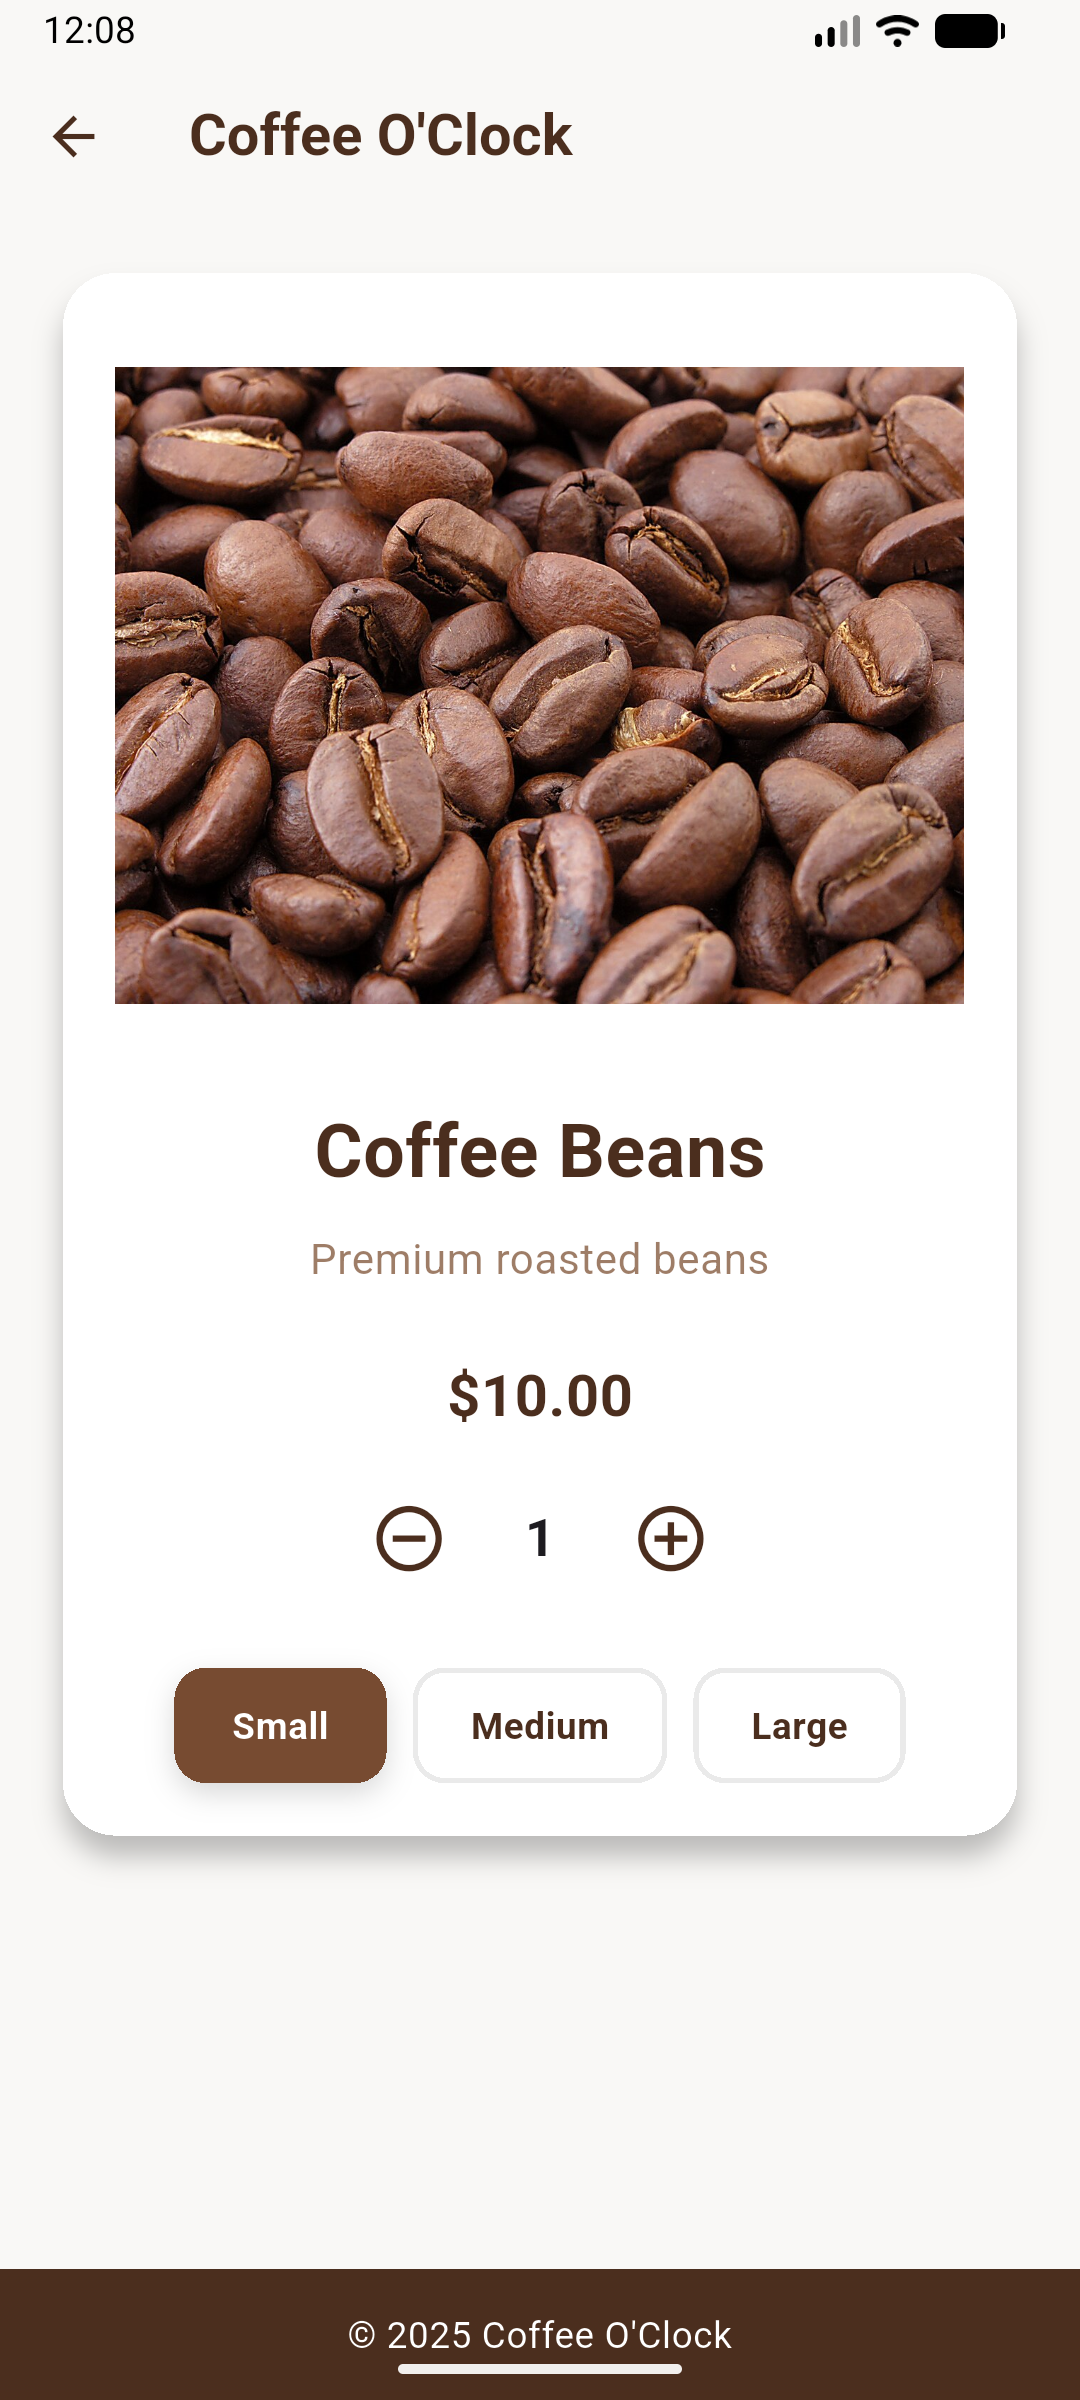
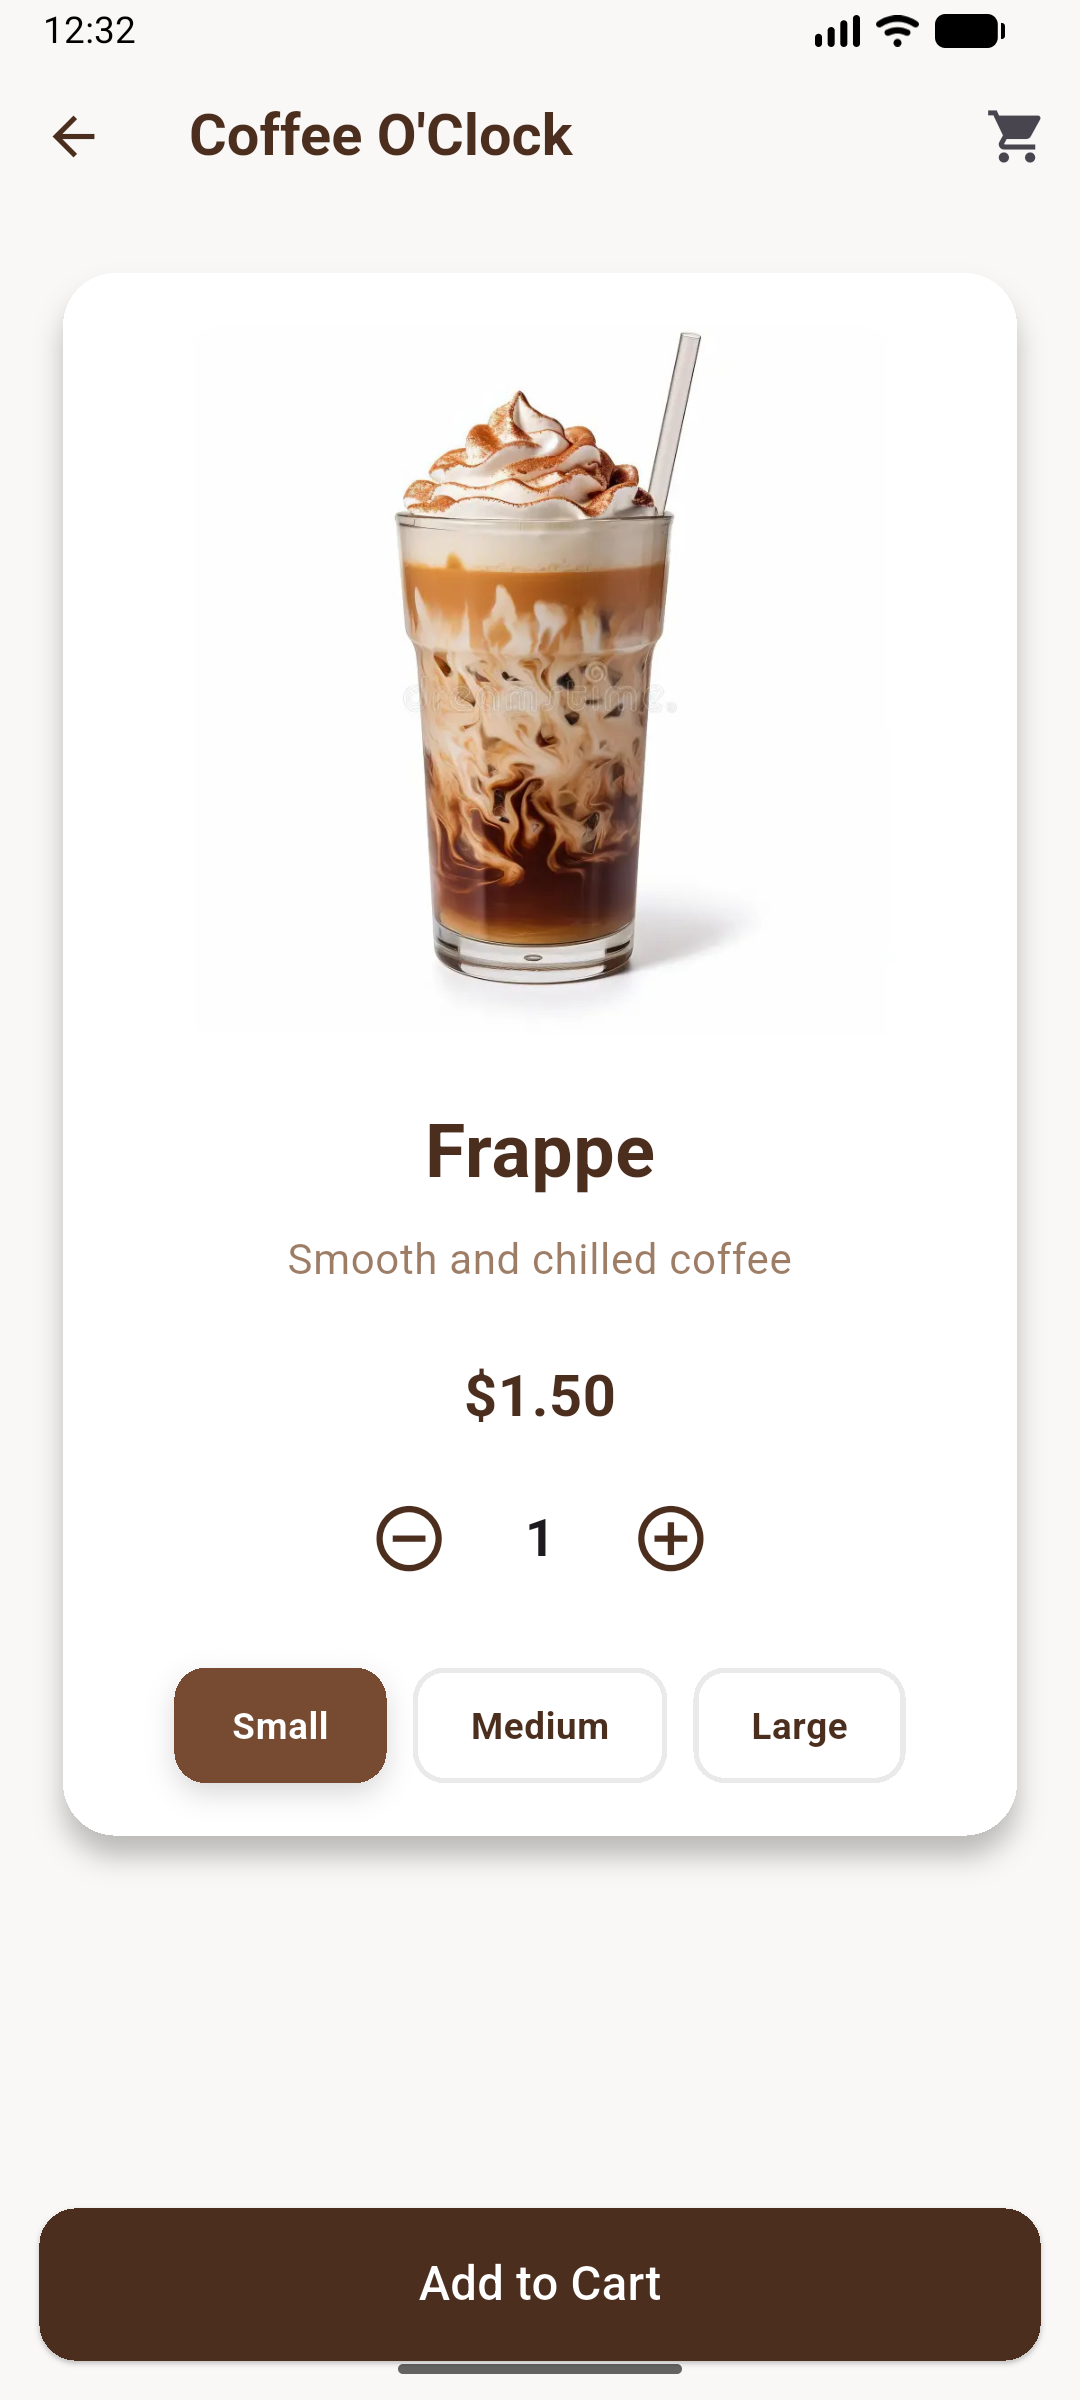
.

diff --git a/lib/cart_page.dart b/lib/cart_page.dart
@@ -1,0 +1,175 @@
+import 'package:flutter/material.dart';
+import 'package:provider/provider.dart';
+import 'cart_provider.dart';
+
+class CartPage extends StatelessWidget {
+  const CartPage({super.key});
+
+  static const Color primaryBrown = Color(0xFF4B2E1E);
+  static const Color secondaryBrown = Color(0xFF9E7D67);
+  static const Color bgColor = Color(0xFFF9F8F6);
+
+  @override
+  Widget build(BuildContext context) {
+    final cart = Provider.of<CartProvider>(context);
+
+    return Scaffold(
+      backgroundColor: bgColor,
+      appBar: AppBar(
+        backgroundColor: bgColor,
+        elevation: 0,
+        iconTheme: const IconThemeData(color: primaryBrown),
+        title: const Text(
+          "Your Cart",
+          style: TextStyle(
+            color: primaryBrown,
+            fontWeight: FontWeight.bold,
+          ),
+        ),
+      ),
+
+      body: cart.items.isEmpty
+          ? _emptyCart()
+          : ListView.builder(
+              padding: const EdgeInsets.all(16),
+              itemCount: cart.items.length,
+              itemBuilder: (_, i) {
+                final item = cart.items[i];
+
+                return Card(
+                  elevation: 4,
+                  margin: const EdgeInsets.only(bottom: 14),
+                  shape: RoundedRectangleBorder(
+                    borderRadius: BorderRadius.circular(16),
+                  ),
+                  child: Padding(
+                    padding: const EdgeInsets.all(12),
+                    child: Row(
+                      children: [
+                        ClipRRect(
+                          borderRadius: BorderRadius.circular(12),
+                          child: Image.asset(
+                            item.image,
+                            width: 70,
+                            height: 70,
+                            fit: BoxFit.cover,
+                          ),
+                        ),
+
+                        const SizedBox(width: 14),
+
+                        Expanded(
+                          child: Column(
+                            crossAxisAlignment: CrossAxisAlignment.start,
+                            children: [
+                              Text(
+                                item.title,
+                                style: const TextStyle(
+                                  fontWeight: FontWeight.bold,
+                                  fontSize: 16,
+                                  color: primaryBrown,
+                                ),
+                              ),
+                              const SizedBox(height: 4),
+                              Text(
+                                "${item.size} • Qty ${item.quantity}",
+                                style: const TextStyle(
+                                  color: secondaryBrown,
+                                  fontSize: 13,
+                                ),
+                              ),
+                            ],
+                          ),
+                        ),
+
+                        Text(
+                          "\$${item.totalPrice.toStringAsFixed(2)}",
+                          style: const TextStyle(
+                            fontWeight: FontWeight.bold,
+                            fontSize: 16,
+                            color: primaryBrown,
+                          ),
+                        ),
+                      ],
+                    ),
+                  ),
+                );
+              },
+            ),
+
+      bottomNavigationBar: _checkoutBar(cart),
+    );
+  }
+
+  Widget _emptyCart() {
+    return Center(
+      child: Column(
+        mainAxisAlignment: MainAxisAlignment.center,
+        children: const [
+          Icon(Icons.shopping_cart_outlined,
+              size: 80, color: secondaryBrown),
+          SizedBox(height: 12),
+          Text(
+            "Your cart is empty",
+            style: TextStyle(
+              fontSize: 18,
+              color: secondaryBrown,
+            ),
+          ),
+        ],
+      ),
+    );
+  }
+
+  Widget _checkoutBar(CartProvider cart) {
+    return Container(
+      padding: const EdgeInsets.all(20),
+      decoration: const BoxDecoration(
+        color: primaryBrown,
+        borderRadius: BorderRadius.vertical(top: Radius.circular(20)),
+      ),
+      child: Row(
+        mainAxisAlignment: MainAxisAlignment.spaceBetween,
+        children: [
+          Column(
+            mainAxisSize: MainAxisSize.min,
+            crossAxisAlignment: CrossAxisAlignment.start,
+            children: [
+              const Text(
+                "Total",
+                style: TextStyle(color: Colors.white70),
+              ),
+              Text(
+                "\$${cart.totalAmount.toStringAsFixed(2)}",
+                style: const TextStyle(
+                  fontSize: 22,
+                  fontWeight: FontWeight.bold,
+                  color: Colors.white,
+                ),
+              ),
+            ],
+          ),
+
+          ElevatedButton(
+            style: ElevatedButton.styleFrom(
+              backgroundColor: Colors.white,
+              foregroundColor: primaryBrown,
+              padding:
+                  const EdgeInsets.symmetric(horizontal: 28, vertical: 14),
+              shape: RoundedRectangleBorder(
+                borderRadius: BorderRadius.circular(14),
+              ),
+            ),
+            onPressed: () {
+              
+            },
+            child: const Text(
+              "Checkout",
+              style: TextStyle(fontSize: 16, fontWeight: FontWeight.bold),
+            ),
+          ),
+        ],
+      ),
+    );
+  }
+}

diff --git a/lib/ItemDetails.dart b/lib/ItemDetails.dart
@@ -1,4 +1,8 @@
 import 'package:flutter/material.dart';
+import 'package:provider/provider.dart';
+import 'package:mobile/cart_page.dart';
+import 'cart_provider.dart';
+import 'cart_item.dart';
 
 class DetailPage extends StatefulWidget {
   final String title;
@@ -76,6 +80,17 @@ class _DetailPageState extends State<DetailPage> {
           "Coffee O'Clock",
           style: TextStyle(color: primaryBrown, fontWeight: FontWeight.bold),
         ),
+          actions: [
+  IconButton(
+    icon: const Icon(Icons.shopping_cart),
+    onPressed: () {
+      Navigator.push(
+        context,
+        MaterialPageRoute(builder: (_) => const CartPage()),
+      );
+    },
+  ),
+]
       ),
       body: Padding(
         padding: const EdgeInsets.all(20),
@@ -166,15 +181,37 @@ class _DetailPageState extends State<DetailPage> {
           ),
         ),
       ),
-      bottomNavigationBar: Container(
-        color: primaryBrown,
-        padding: const EdgeInsets.all(15),
-        child: const Text(
-          "© 2025 Coffee O'Clock",
-          textAlign: TextAlign.center,
-          style: TextStyle(color: Colors.white),
-        ),
+     bottomNavigationBar: Padding(
+  padding: const EdgeInsets.all(15),
+  child: ElevatedButton(
+    style: ElevatedButton.styleFrom(
+      backgroundColor: primaryBrown,
+      padding: const EdgeInsets.symmetric(vertical: 16),
+      shape: RoundedRectangleBorder(
+        borderRadius: BorderRadius.circular(14),
       ),
+    ),
+    onPressed: () {
+      Provider.of<CartProvider>(context, listen: false).addToCart(
+        CartItem(
+          title: widget.title,
+          image: widget.image,
+          size: selectedSize,
+          unitPrice: currentBasePrice,
+          quantity: quantity,
+        ),
+      );
+
+      ScaffoldMessenger.of(context).showSnackBar(
+        const SnackBar(content: Text("Added to cart 🛒")),
+      );
+    },
+    child: const Text(
+      "Add to Cart",
+      style: TextStyle(fontSize: 18, color: Colors.white),
+    ),
+  ),
+),
     );
   }
 

diff --git a/lib/ProductList.dart b/lib/ProductList.dart
@@ -1,6 +1,7 @@
 import 'package:flutter/material.dart';
 import 'package:mobile/about.dart';
 import 'package:mobile/Home1.dart';
+import 'package:mobile/cart_page.dart';
 import 'package:mobile/ProductListView.dart';
 import 'dart:convert';
 import 'package:http/http.dart' as http;
@@ -70,6 +71,18 @@ class _ProductlistState extends State<Productlist> {
         centerTitle: true,
         backgroundColor: Colors.transparent,
         elevation: 0,
+        actions: [
+  IconButton(
+    icon: const Icon(Icons.shopping_cart),
+    onPressed: () {
+      Navigator.push(
+        context,
+        MaterialPageRoute(builder: (_) => const CartPage()),
+      );
+    },
+  ),
+]
+
       ),
       body: isLoading
           ? const Center(child: CircularProgressIndicator())
@@ -101,6 +114,7 @@ class _ProductlistState extends State<Productlist> {
                 ],
               ),
             ),
+            
       bottomNavigationBar: Container(
         color: coffeeBrown,
         padding: const EdgeInsets.all(16),

diff --git a/lib/cart_provider.dart b/lib/cart_provider.dart
@@ -1,0 +1,34 @@
+import 'package:flutter/material.dart';
+import 'cart_item.dart';
+
+class CartProvider extends ChangeNotifier {
+  final List<CartItem> _items = [];
+
+  List<CartItem> get items => _items;
+
+  double get totalAmount =>
+      _items.fold(0, (sum, item) => sum + item.totalPrice);
+
+  void addToCart(CartItem item) {
+    final index = _items.indexWhere(
+      (e) => e.title == item.title && e.size == item.size,
+    );
+
+    if (index >= 0) {
+      _items[index].quantity += item.quantity;
+    } else {
+      _items.add(item);
+    }
+    notifyListeners();
+  }
+
+  void removeItem(CartItem item) {
+    _items.remove(item);
+    notifyListeners();
+  }
+
+  void clearCart() {
+    _items.clear();
+    notifyListeners();
+  }
+}

diff --git a/lib/main.dart b/lib/main.dart
@@ -1,5 +1,8 @@
 import 'package:flutter/material.dart';
-import 'package:mobile/login_page.dart';
+import 'package:provider/provider.dart';
+
+import 'cart_provider.dart';
+import 'login_page.dart';
 
 void main() {
   runApp(const MyApp());
@@ -10,9 +13,12 @@ class MyApp extends StatelessWidget {
 
   @override
   Widget build(BuildContext context) {
-    return MaterialApp(
-      debugShowCheckedModeBanner: false,
-      home: const LoginPage(),
+    return ChangeNotifierProvider(
+      create: (_) => CartProvider(),
+      child: MaterialApp(
+        debugShowCheckedModeBanner: false,
+        home: const LoginPage(),
+      ),
     );
   }
 }

diff --git a/lib/cart_item.dart b/lib/cart_item.dart
@@ -1,0 +1,17 @@
+class CartItem {
+  final String title;
+  final String image;
+  final String size;
+  final double unitPrice;
+  int quantity;
+
+  CartItem({
+    required this.title,
+    required this.image,
+    required this.size,
+    required this.unitPrice,
+    this.quantity = 1,
+  });
+
+  double get totalPrice => unitPrice * quantity;
+}
